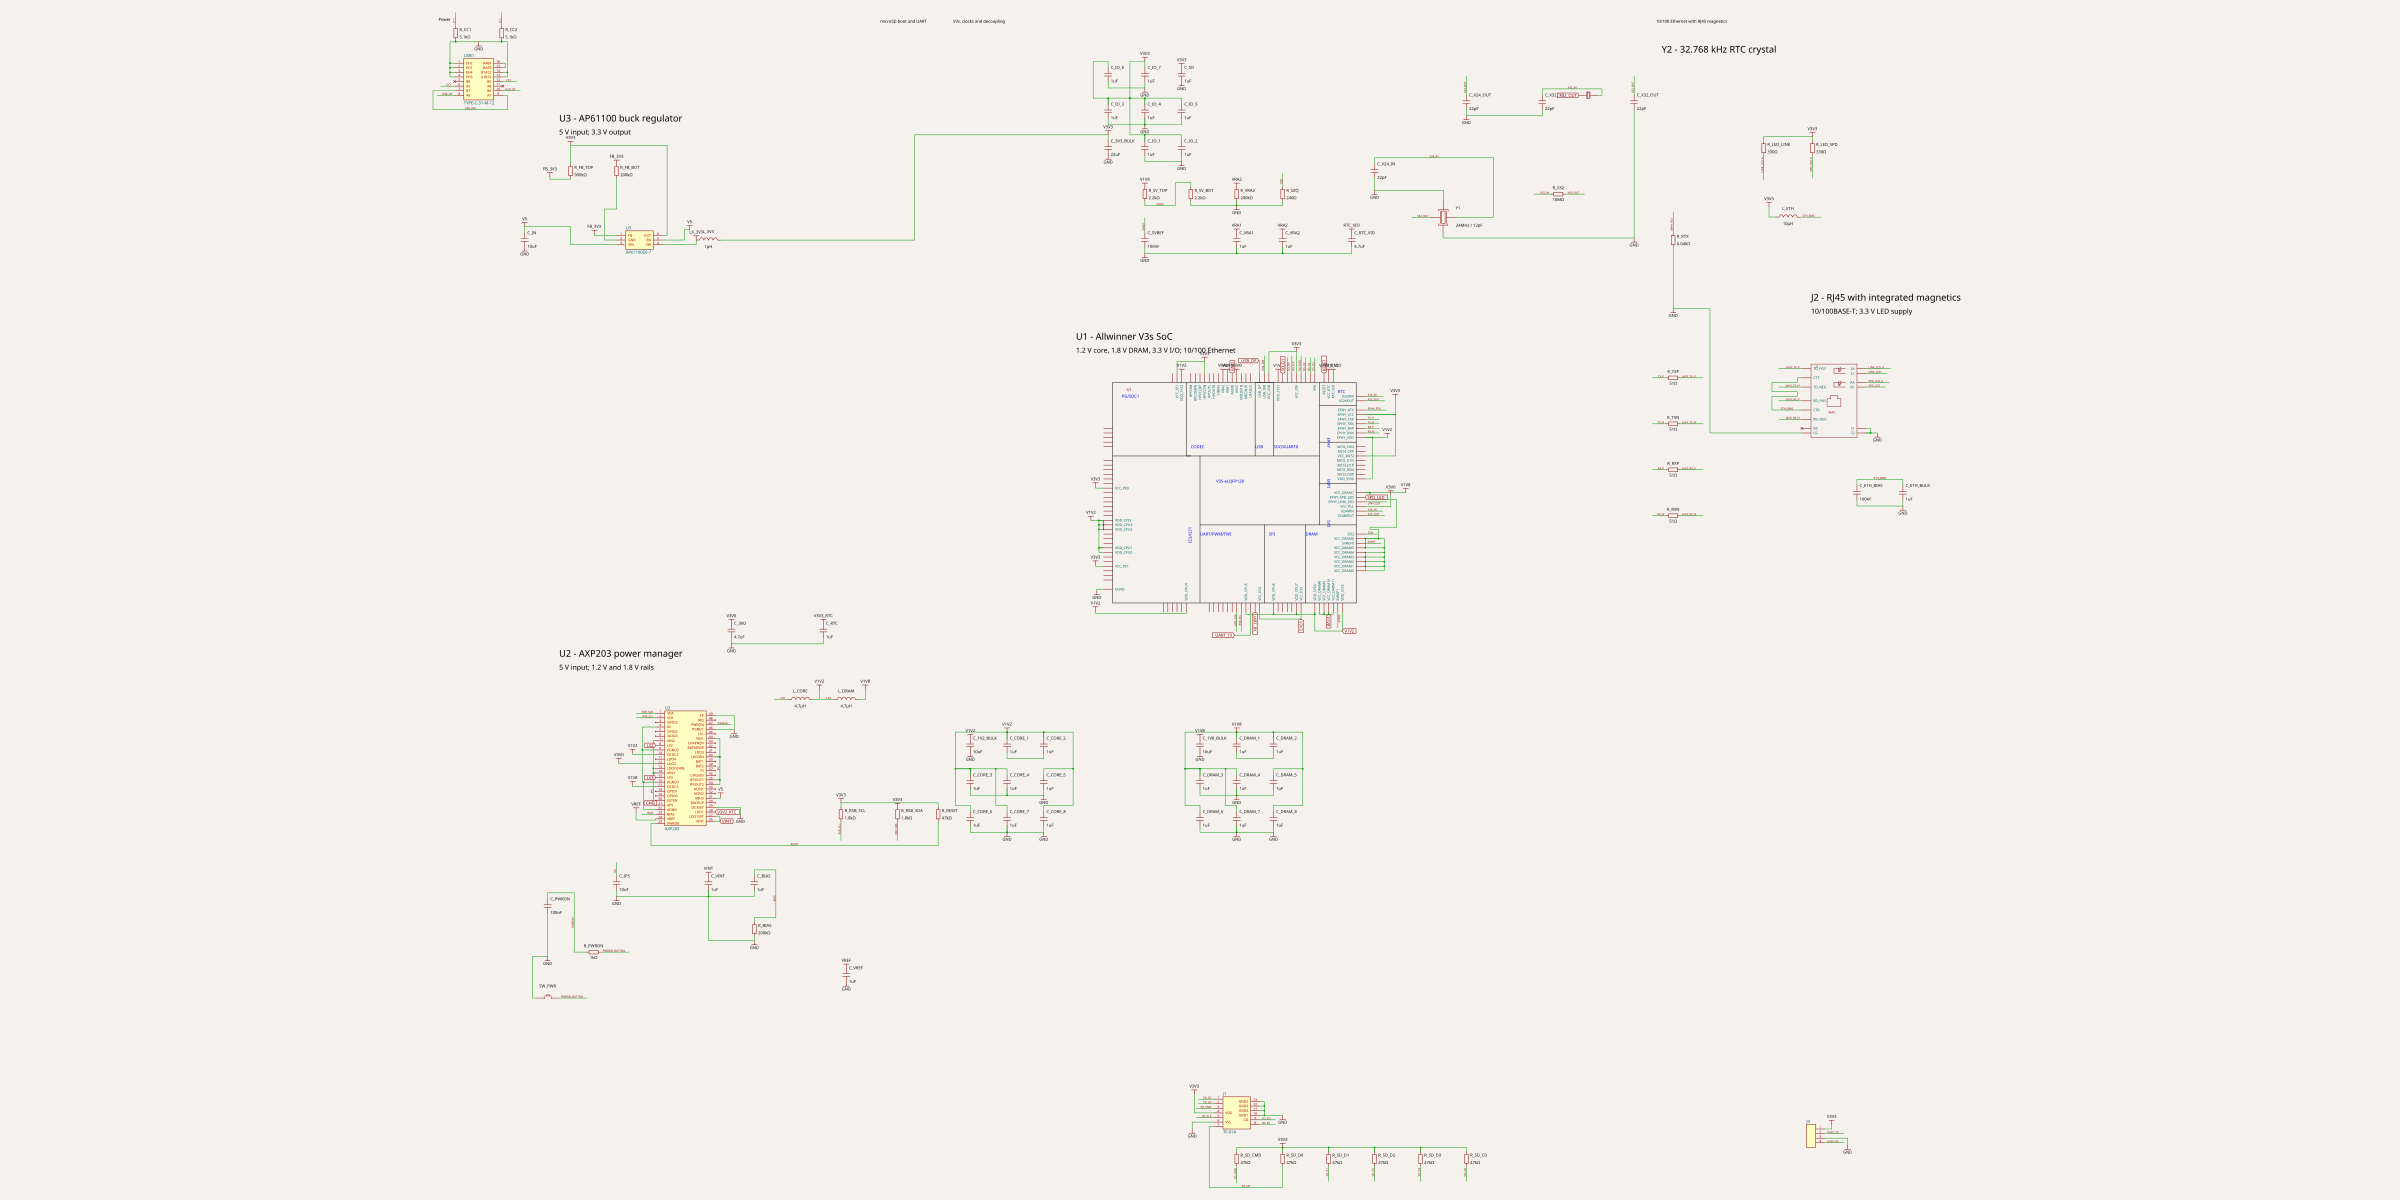
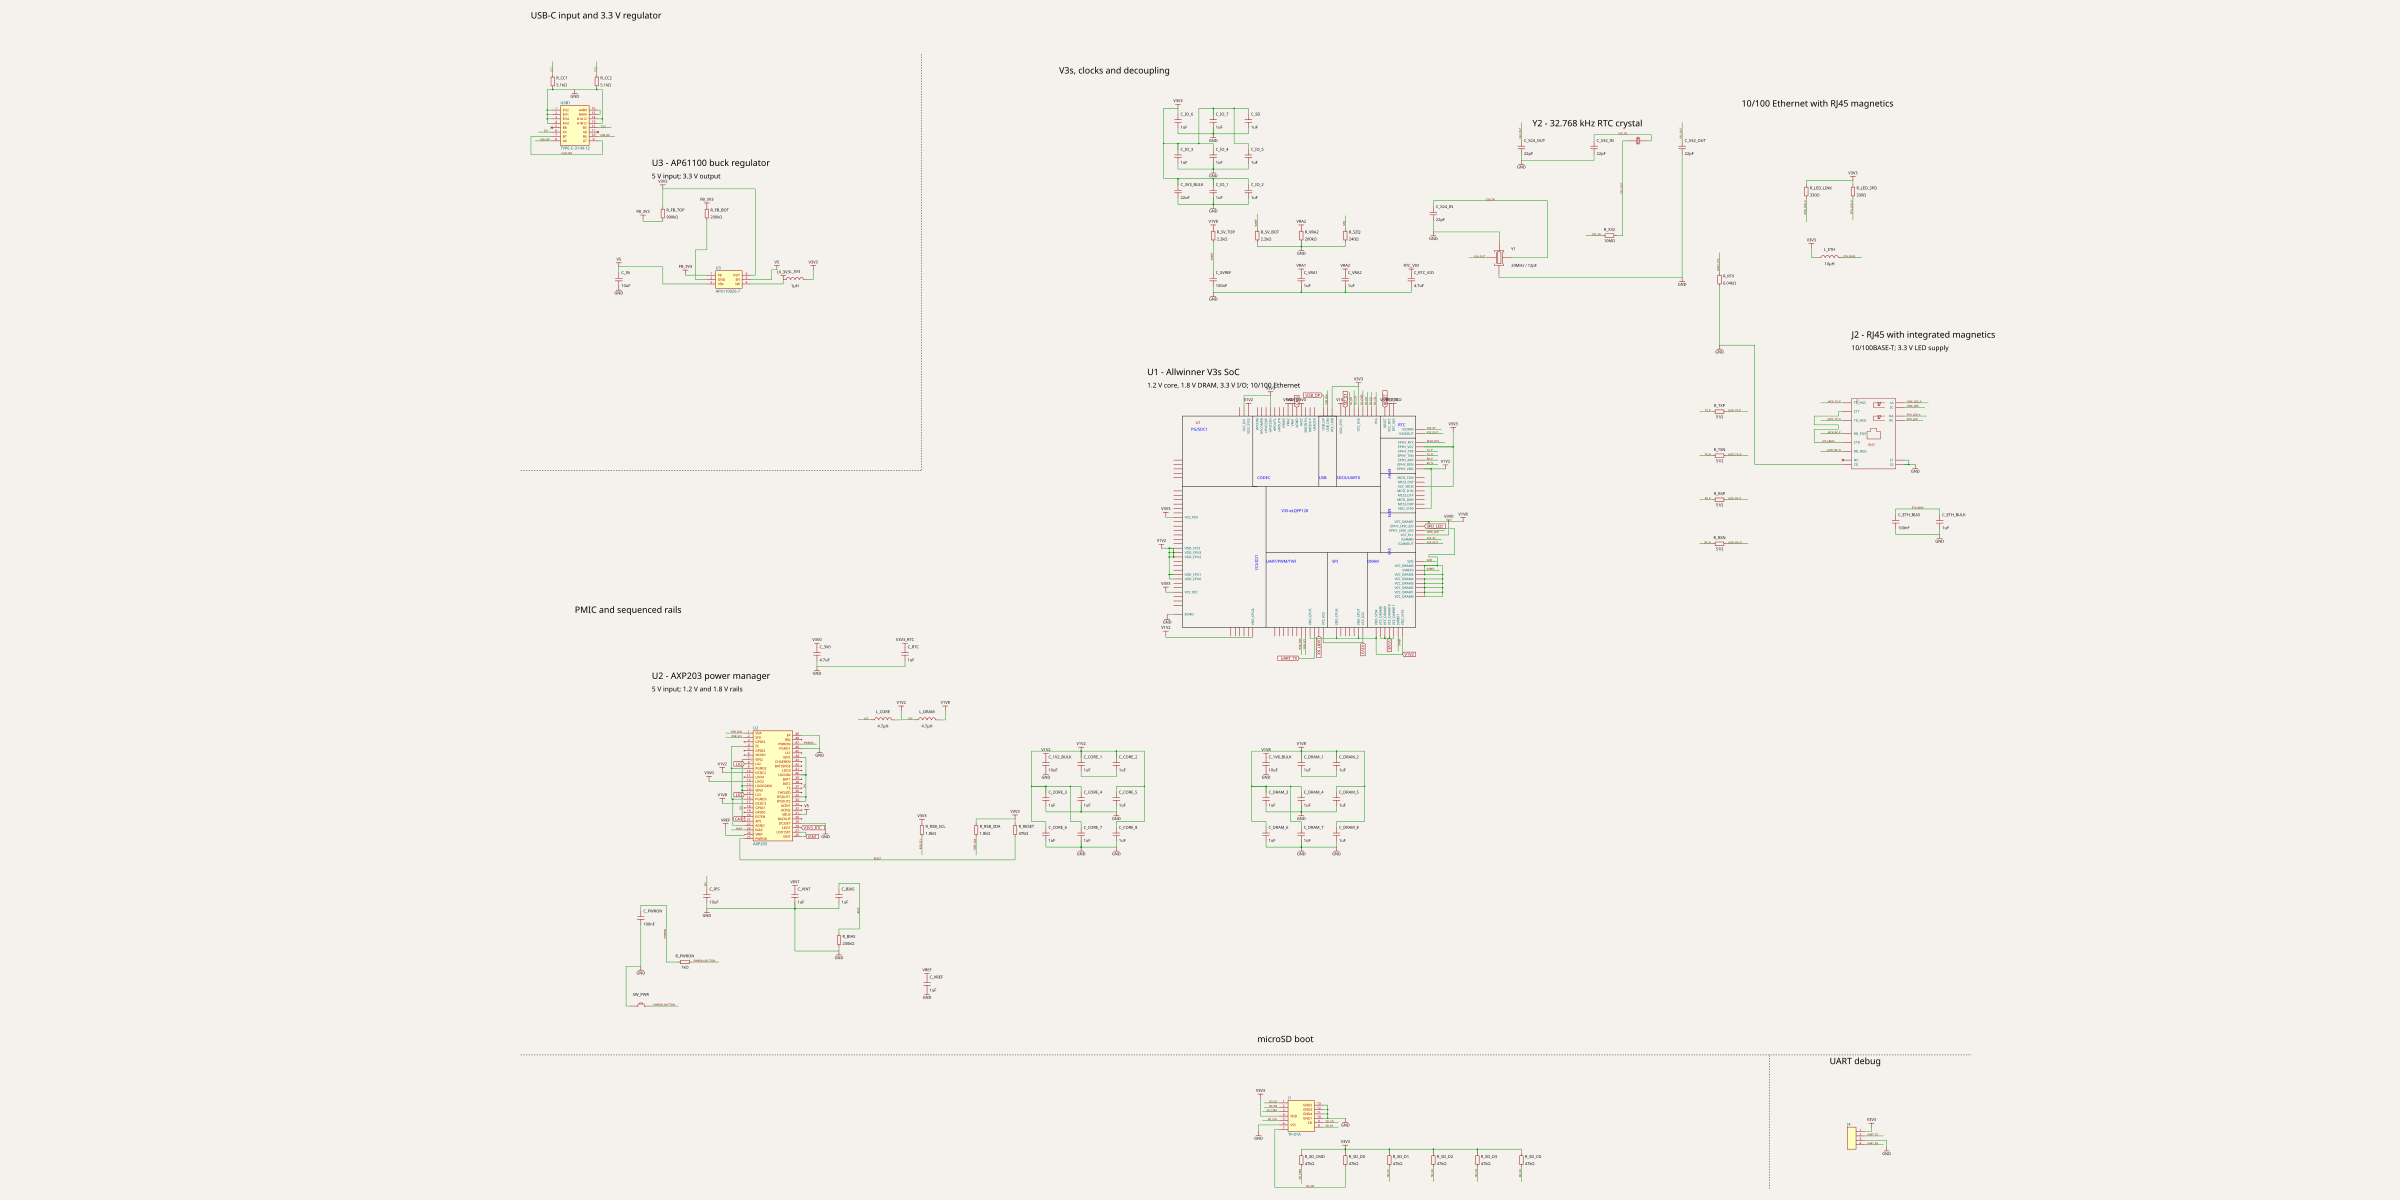
Organize schematic into functional sections

diff --git a/index.circuit.tsx b/index.circuit.tsx
@@ -183,6 +183,10 @@ const resistorSch: Record<string, [number, number]> = {
   R_LED_LINK: [22.94, 15], R_LED_SPD: [25.06, 15],
 }
 
+const inputResistors = new Set(["R_FB_TOP", "R_FB_BOT", "R_CC1", "R_CC2"])
+const cpuResistors = new Set(["R_SV_TOP", "R_SV_BOT", "R_VRA2", "R_SZQ", "R_X32"])
+const cpuCapacitors = new Set(["C_3V3_BULK", "C_SD"])
+
 const pcbReverse = new Set([
   "R_RSB_SCL", "R_RSB_SDA", "R_SZQ", "C_3V3_BULK",
   "C_SD", "C_X24_IN", "C_X32_IN", "C_1V8_BULK", "C_DRAM_2", "C_DRAM_6", "C_IO_6", "C_PWRON",
@@ -192,10 +196,20 @@ export default function MinimalV3sEthernet({ routingDisabled = false }: { routin
   return (
     <board width="80mm" height="70mm" layers={4} routingDisabled={routingDisabled}>
       <copperpour connectsTo="net.GND" layer="inner1" clearance="0.15mm" boardEdgeMargin="0.25mm" />
-      <schematicsection name="power" displayName="Power" />
-      <schematicsection name="cpu" displayName="V3s, clocks and decoupling" />
-      <schematicsection name="boot" displayName="microSD boot and UART" />
-      <schematicsection name="ethernet" displayName="10/100 Ethernet with RJ45 magnetics" />
+      <schematicsection name="input" />
+      <schematicsection name="pmic" />
+      <schematicsection name="cpu" />
+      <schematicsection name="boot" />
+      <schematicsection name="uart" />
+      <schematicsection name="ethernet" />
+
+      {/* Explicit headings keep section titles clear of the CC traces and one another. */}
+      <schematictext text="USB-C input and 3.3 V regulator" schX={-35} schY={23} fontSize={0.4} anchor="left" />
+      <schematictext text="PMIC and sequenced rails" schX={-33} schY={-4} fontSize={0.4} anchor="left" />
+      <schematictext text="V3s, clocks and decoupling" schX={-11} schY={20.5} fontSize={0.4} anchor="left" />
+      <schematictext text="microSD boot" schX={-2} schY={-23.5} fontSize={0.4} anchor="left" />
+      <schematictext text="UART debug" schX={24} schY={-24.5} fontSize={0.4} anchor="left" />
+      <schematictext text="10/100 Ethernet with RJ45 magnetics" schX={20} schY={19} fontSize={0.4} anchor="left" />
 
       <schematictext text="U1 - Allwinner V3s SoC" schX={-7} schY={6.8} fontSize={0.4} anchor="left" />
       <schematictext text="1.2 V core, 1.8 V DRAM, 3.3 V I/O; 10/100 Ethernet" schX={-7} schY={6.2} fontSize={0.3} anchor="left" />
@@ -205,28 +219,28 @@ export default function MinimalV3sEthernet({ routingDisabled = false }: { routin
       <schematictext text="5 V input; 3.3 V output" schX={-29.5} schY={15.7} fontSize={0.3} anchor="left" />
       <schematictext text="J2 - RJ45 with integrated magnetics" schX={25} schY={8.5} fontSize={0.4} anchor="left" />
       <schematictext text="10/100BASE-T; 3.3 V LED supply" schX={25} schY={7.9} fontSize={0.3} anchor="left" />
-      <schematictext text="Y2 - 32.768 kHz RTC crystal" schX={18.5} schY={19.3} fontSize={0.4} anchor="left" />
+      <schematictext text="Y2 - 32.768 kHz RTC crystal" schX={10.5} schY={18.1} fontSize={0.4} anchor="left" />
 
       <V3s name="U1" pcbX={0} pcbY={0} schX={0} schY={0} schSectionName="cpu" />
-      <AXP203 name="U2" pcbX={-22} pcbY={-13} schX={-24} schY={-12} schHeight={5} schSectionName="power" />
-      <AP61100Z6_7 name="U3" pcbX={-25} pcbY={13} schX={-26} schY={11} schSectionName="power" />
+      <AXP203 name="U2" pcbX={-22} pcbY={-13} schX={-24} schY={-12} schHeight={5} schSectionName="pmic" />
+      <AP61100Z6_7 name="U3" pcbX={-25} pcbY={13} schX={-26} schY={11} schSectionName="input" />
       <TF_01A name="J1" pcbX={2} pcbY={-25} schX={0} schY={-27} schHeight={1.4} schSectionName="boot" />
       <J0011D21BNL name="J2" pcbX={26} pcbY={21.8} schX={26} schY={4} schSectionName="ethernet" />
-      <TYPE_C_31_M_12 name="USB1" pcbX={-34} pcbY={21} pcbRotation={-90} schX={-33} schY={18} schSectionName="power" />
-      <pinheader name="J4" pinCount={4} pitch="2.54mm" gender="male" pcbX={27} pcbY={-29} schX={25} schY={-28} schSectionName="boot" />
+      <TYPE_C_31_M_12 name="USB1" pcbX={-34} pcbY={21} pcbRotation={-90} schX={-33} schY={18} schSectionName="input" />
+      <pinheader name="J4" pinCount={4} pitch="2.54mm" gender="male" pcbX={27} pcbY={-29} schX={25} schY={-28} schSectionName="uart" />
       <X322524MOB4SI name="Y1" loadCapacitance="12pF" pcbX={5.8} pcbY={11} pcbRotation={90} schX={9} schY={12} schSectionName="cpu" />
       <Q13FC13500004 name="Y2" pcbX={17} pcbY={10} schX={15.3} schY={17.3} schRotation={180} schSectionName="cpu" />
-      <pushbutton name="SW_PWR" footprint="smdpushbutton" pcbX={-33} pcbY={-20} schX={-30} schY={-22} schSectionName="power" />
-      <inductor name="L_CORE" inductance="4.7uH" footprint="1210" pcbX={-28.5} pcbY={-13.6} pcbRotation={180} schX={-19} schY={-9} schSectionName="power" />
-      <inductor name="L_DRAM" inductance="4.7uH" footprint="1210" pcbX={-15} pcbY={-16} schX={-17} schY={-9} schSectionName="power" />
-      <inductor name="L_3V3" inductance="1uH" footprint="1210" pcbX={-21} pcbY={13} schX={-23} schY={11} schSectionName="power" />
+      <pushbutton name="SW_PWR" footprint="smdpushbutton" pcbX={-33} pcbY={-20} schX={-30} schY={-22} schSectionName="pmic" />
+      <inductor name="L_CORE" inductance="4.7uH" footprint="1210" pcbX={-28.5} pcbY={-13.6} pcbRotation={180} schX={-19} schY={-9} schSectionName="pmic" />
+      <inductor name="L_DRAM" inductance="4.7uH" footprint="1210" pcbX={-15} pcbY={-16} schX={-17} schY={-9} schSectionName="pmic" />
+      <inductor name="L_3V3" inductance="1uH" footprint="1210" pcbX={-21} pcbY={13} schX={-23} schY={11} schSectionName="input" />
       <inductor name="L_ETH" inductance="10uH" footprint="0805" pcbX={13} pcbY={22} schX={24} schY={12} schSectionName="ethernet" />
       {resistors.map(([name, resistance, x, y]) => (
-        <resistor key={name} name={name} resistance={resistance} footprint="0402" pcbX={resistorPcb[name]?.[0] ?? x} pcbY={resistorPcb[name]?.[1] ?? y} pcbRotation={pcbReverse.has(name) ? 180 : 0} schX={resistorSch[name]?.[0] ?? x} schY={resistorSch[name]?.[1] ?? y} schRotation={name.startsWith("R_TX") || name.startsWith("R_RX") || name === "R_X32" || name === "R_PWRON" ? 0 : -90} schSectionName={name.includes("TX") || name.includes("RX") || name.includes("LED") || name.includes("RTX") ? "ethernet" : name.includes("SD") ? "boot" : "power"} />
+        <resistor key={name} name={name} resistance={resistance} footprint="0402" pcbX={resistorPcb[name]?.[0] ?? x} pcbY={resistorPcb[name]?.[1] ?? y} pcbRotation={pcbReverse.has(name) ? 180 : 0} schX={resistorSch[name]?.[0] ?? x} schY={resistorSch[name]?.[1] ?? y} schRotation={name.startsWith("R_TX") || name.startsWith("R_RX") || name === "R_X32" || name === "R_PWRON" ? 0 : -90} schSectionName={inputResistors.has(name) ? "input" : cpuResistors.has(name) ? "cpu" : name.startsWith("R_SD") ? "boot" : name.startsWith("R_TX") || name.startsWith("R_RX") || name.startsWith("R_LED") || name === "R_RTX" ? "ethernet" : "pmic"} />
       ))}
       {capacitors.map(([name, capacitance, x, y, rail]) => (
         <React.Fragment key={name}>
-          <capacitor name={name} capacitance={capacitance} footprint={capacitance === "22uF" ? "1206" : capacitance === "10uF" || capacitance === "4.7uF" ? "0805" : "0402"} pcbX={capacitorPcb[name]?.[0] ?? x} pcbY={capacitorPcb[name]?.[1] ?? y} pcbRotation={pcbReverse.has(name) ? 180 : 0} schX={capacitorSch[name]?.[0] ?? x} schY={capacitorSch[name]?.[1] ?? y} schRotation={-90} schSectionName={name.includes("ETH") ? "ethernet" : name.includes("SD") ? "boot" : name.includes("CORE") || name.includes("DRAM") || name.includes("IO") || name.includes("X") || name.includes("SV") || name.includes("VRA") || name.includes("RTC_VIO") ? "cpu" : "power"} />
+          <capacitor name={name} capacitance={capacitance} footprint={capacitance === "22uF" ? "1206" : capacitance === "10uF" || capacitance === "4.7uF" ? "0805" : "0402"} pcbX={capacitorPcb[name]?.[0] ?? x} pcbY={capacitorPcb[name]?.[1] ?? y} pcbRotation={pcbReverse.has(name) ? 180 : 0} schX={capacitorSch[name]?.[0] ?? x} schY={capacitorSch[name]?.[1] ?? y} schRotation={-90} schSectionName={name === "C_IN" ? "input" : cpuCapacitors.has(name) ? "cpu" : name.includes("ETH") ? "ethernet" : name.includes("CORE") || name.includes("DRAM") || name.includes("IO") || name.includes("X") || name.includes("SV") || name.includes("VRA") || name.includes("RTC_VIO") ? "cpu" : "pmic"} />
           <trace from={`${name}.pin1`} to={`net.${rail}`} />
           <trace from={`${name}.pin2`} to="net.GND" />
         </React.Fragment>

diff --git a/README.md b/README.md
@@ -30,7 +30,7 @@ The default build routes the four-layer 80 × 70 mm board. The completed build c
 
 PCB snapshots from the passing build: [full board](./pcb-routed.png), [Ethernet to RJ45](./pcb-ethernet.png), and [clock, power, SD, and USB nets](./pcb-critical-nets.png). Rebuild with `bun run build`; the autorouter can take several minutes. Run `bunx tsci check shorts dist/index/circuit.json` after any routing change.
 
-The [schematic review snapshot](./schematic-review.png) labels the V3s, both power chips, the RJ45, and the RTC crystal with their functions and relevant voltage or frequency values.
+The [schematic review snapshot](./schematic-review.png) groups the circuits into power input, PMIC, V3s, microSD, UART, and Ethernet sections. It labels the V3s, both power chips, the RJ45, and the RTC crystal with their functions and relevant voltage or frequency values.
 
 This is a routed prototype, not a released fabrication package. The part-selection engine reports 0402 supplier footprint discrepancies and cannot resolve the selected 22 pF capacitor's JLCPCB number, so verify or replace those parts before assembly. Also verify the ordered AXP203 variant's startup voltages and timing, USB-C connector orientation and power budget, and Ethernet center-tap/EMC network.
 
